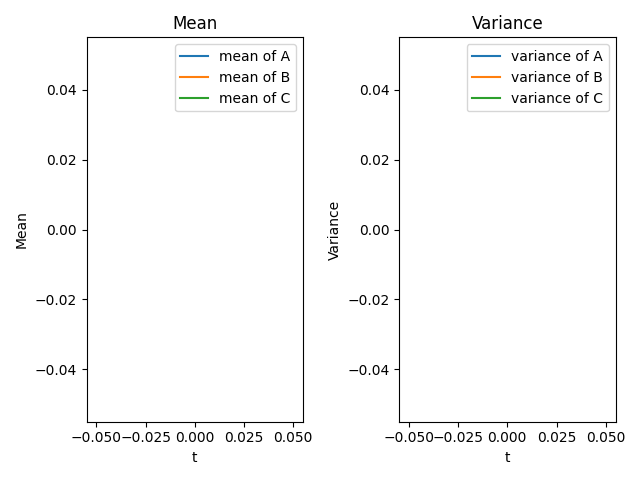
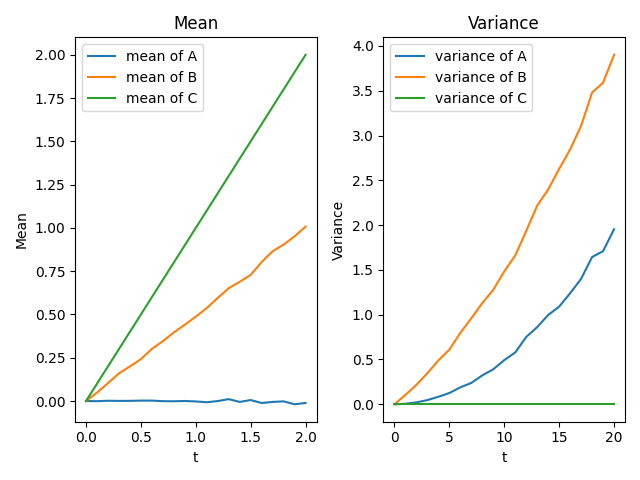
fix bug

diff --git a/project4/question1.py b/project4/question1.py
@@ -68,9 +68,13 @@ def q1_a():
     b_variances = []
     c_means = []
     c_variances = []
+    t_s = []
+    for t_ in range(0,2100,100):
+        t_s.append(t_/1000)
     # for L in range(10,1000,20):
-    for L in range(10000,10001):
-    # for t in range(0,3):
+    # for L in range(10000,10001):
+    for t in t_s:
+        print("t: ", t)
         Ls.append(L)
         dWs = []
         samples = np.zeros(sample_size)
@@ -82,50 +86,50 @@ def q1_a():
         # calculating the runtime for each L
         dt = t / L
         # generate ts list
-        s = 0
-        ts = [0]
-        while s <= t:
-            ts.append(s)
-            s += dt
+        # s = 0
+        # ts = [0]
+        # while s <= t:
+        #     ts.append(s)
+        #     s += dt
 
         start_time = time.time()
         for i in range(sample_size):
-            print("L: ", L, " percent done: ", i*100/sample_size, "%")
+            # print("L: ", L, " percent done: ", i*100/sample_size, "%")
             # generate a brownian motion process
 
             current, all = generate_brownian_motion_loop(t, drift, variance, dt=t/L)
-            # total_a = 0
-            # for j in range(0, len(all)-1):
-            #     # total_a += abs(all[j+1] - all[j])
-            #     # total_a += (all[j + 1] - all[j])**2
-            #     total_a += (all[j + 1] - all[j]) * all[j]
-            #     # total_a += ((all[j] + all[j+1])/2)*(all[j + 1] - all[j])
-            #     # total_a += all[j]*all[j]*dt
-            # samples_a[i] = total_a
-            # total_b = 0
-            # for j in range(0, len(all)-1):
-            #     # total_a += abs(all[j+1] - all[j])
-            #     # total_a += (all[j + 1] - all[j])**2
-            #     # total_a += (all[j + 1] - all[j]) * all[j]
-            #     total_b += ((all[j] + all[j+1])/2)*(all[j + 1] - all[j])
-            #     # total_a += all[j]*dt
-            # samples_b[i] = total_b
-            # samples[i] = total_a
-            # samples[i] = total_a*total_a
-            # total_c = 0
-            # for j in range(0, len(all)-1):
-            #     # total_a += abs(all[j+1] - all[j])
-            #     # total_a += (all[j + 1] - all[j])**2
-            #     # total_a += (all[j + 1] - all[j]) * all[j]
-            #     # total_b += ((all[j] + all[j+1])/2)*(all[j + 1] - all[j])
-            #     # total_a += all[j]*dt
-            #     total_c += dt
-            # samples_c[i] = 0.5*total_c
+            total_a = 0
+            for j in range(0, len(all)-1):
+                # total_a += abs(all[j+1] - all[j])
+                # total_a += (all[j + 1] - all[j])**2
+                total_a += (all[j + 1] - all[j]) * all[j]
+                # total_a += ((all[j] + all[j+1])/2)*(all[j + 1] - all[j])
+                # total_a += all[j]*all[j]*dt
+            samples_a[i] = total_a
+            total_b = 0
+            for j in range(0, len(all)-1):
+                # total_a += abs(all[j+1] - all[j])
+                # total_a += (all[j + 1] - all[j])**2
+                # total_a += (all[j + 1] - all[j]) * all[j]
+                total_b += ((all[j] + all[j+1])/2 + np.random.normal(0, 1))*(all[j + 1] - all[j])
+                # total_a += all[j]*dt
+            samples_b[i] = total_b
+            samples[i] = total_a
+            samples[i] = total_a*total_a
+            total_c = 0
+            for j in range(0, len(all)-1):
+                # total_a += abs(all[j+1] - all[j])
+                # total_a += (all[j + 1] - all[j])**2
+                # total_a += (all[j + 1] - all[j]) * all[j]
+                # total_b += ((all[j] + all[j+1])/2)*(all[j + 1] - all[j])
+                # total_a += all[j]*dt
+                total_c += dt
+            samples_c[i] = total_c
 
             # using the trapezoidal method
             samples[i] = np.trapz(all,dx=dt)
-            if i < 50:
-                plt.plot(ts, all)
+            # if i < 50:
+            #     plt.plot(ts, all)
             if i < sample_size//2:
                 samples_positives[i] = samples[i]
             # else:
@@ -209,9 +213,9 @@ def q1_a():
     # plt.show()
 
     fig, (ax1, ax2) = plt.subplots(1, 2)
-    ax1.plot(a_means, label='mean of A')
-    ax1.plot(b_means, label='mean of B')
-    ax1.plot(c_means, label='mean of C')
+    ax1.plot(t_s, a_means, label='mean of A')
+    ax1.plot(t_s, b_means, label='mean of B')
+    ax1.plot(t_s, c_means, label='mean of C')
     ax1.set_title('Mean')
     ax1.set_xlabel('t')
     ax1.set_ylabel('Mean')
